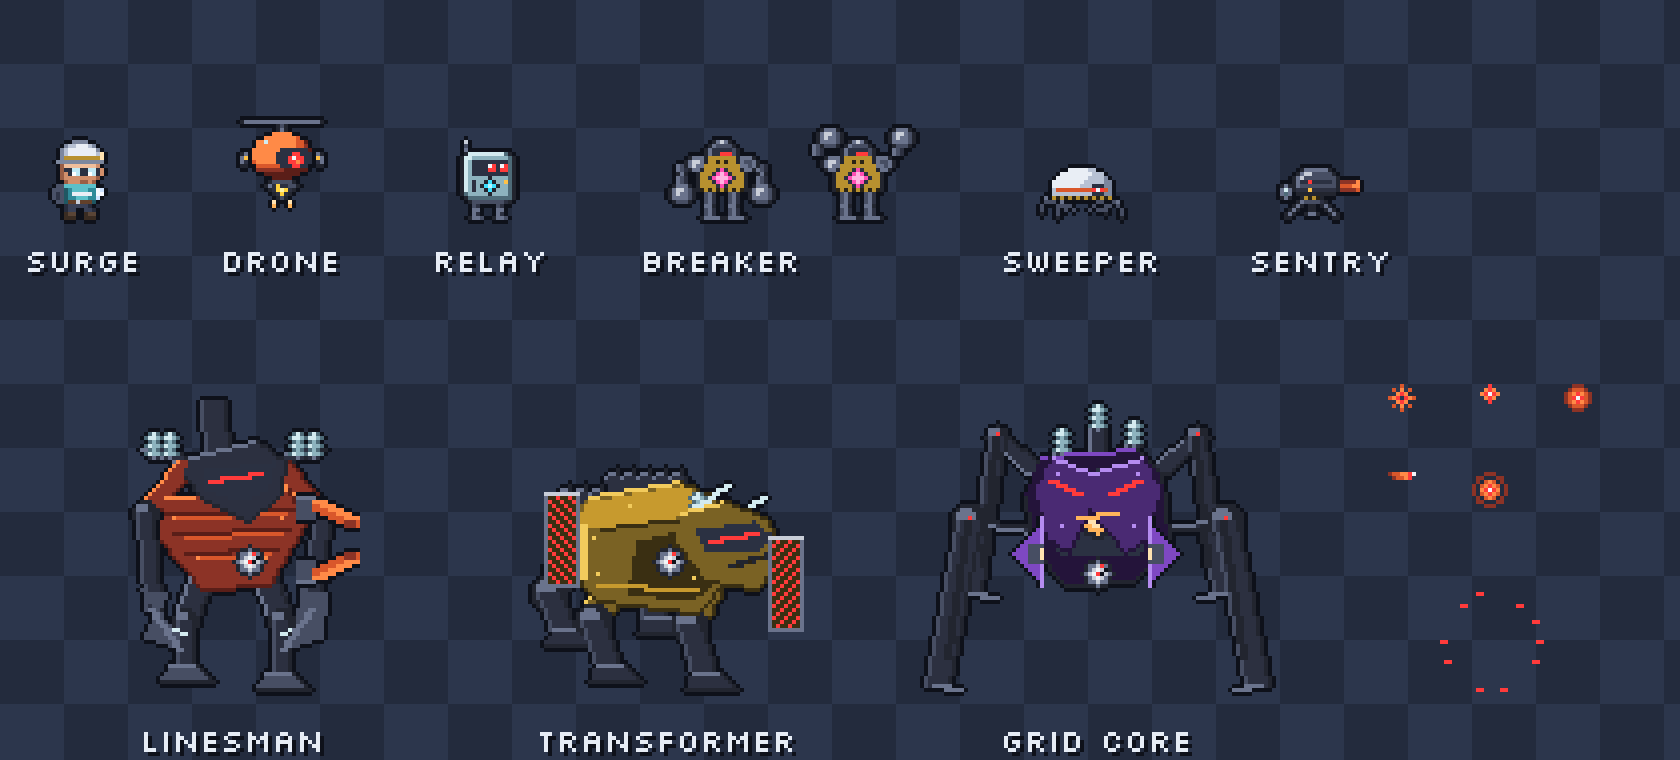
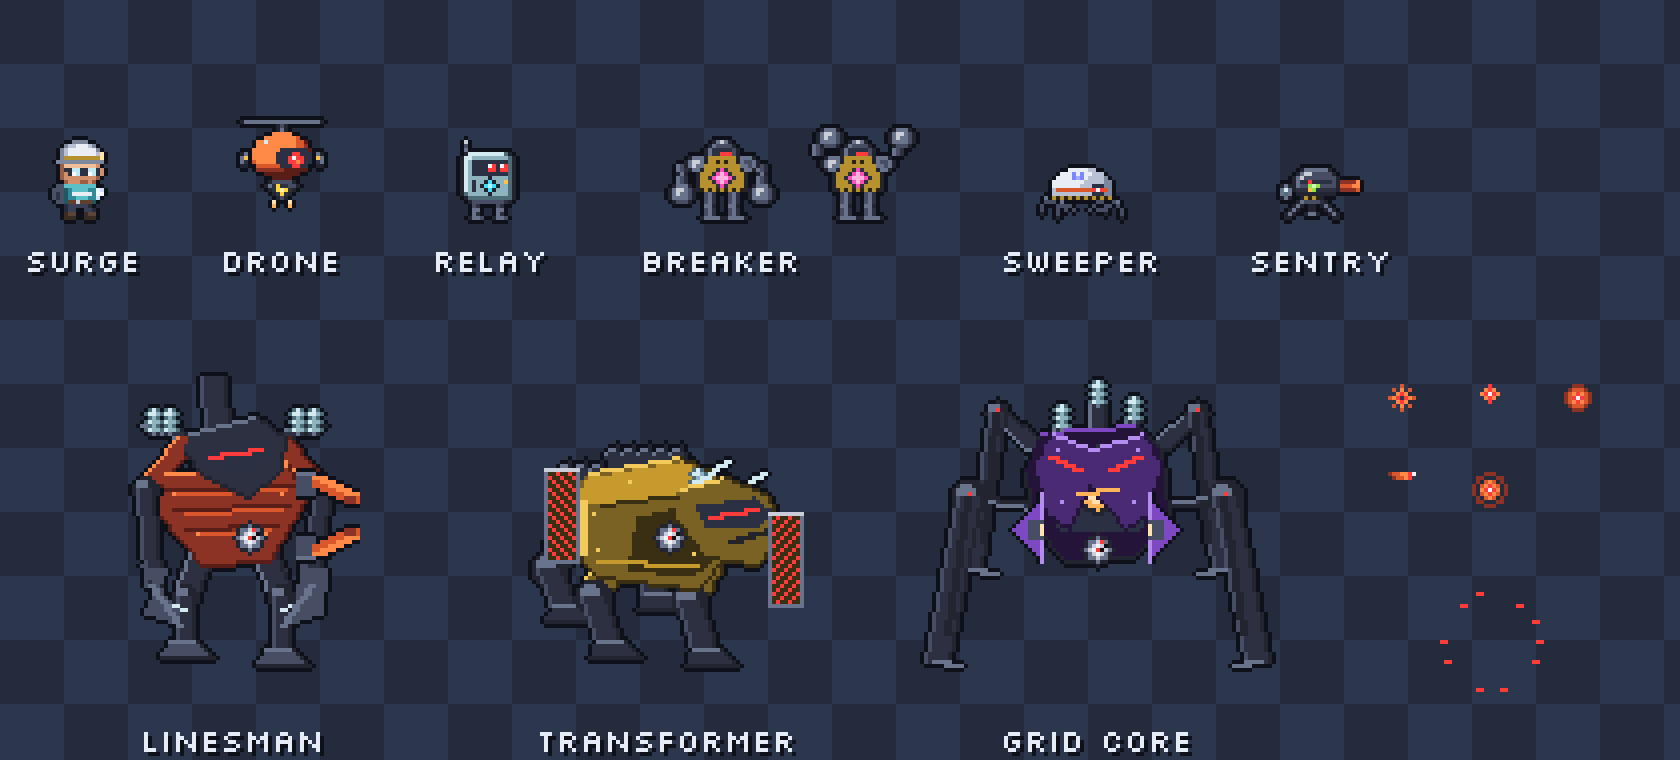
Address QA review findings on contact sheet, UI renders, and docs

Changed region(s): [[0.5262, 0.4842, 0.7738, 0.9382], [0.0619, 0.4842, 0.2167, 0.9382], [0.3095, 0.575, 0.4952, 0.9382]]

diff --git a/tools/art/contact_sheet.py b/tools/art/contact_sheet.py
@@ -86,12 +86,24 @@ Draw = Callable[[pygame.Surface, tuple[int, int]], None]
 
 
 def centered(image: pygame.Surface) -> Draw:
+    bounds = image.get_bounding_rect()
+    if bounds.w > 0 and bounds.h > 0:
+        image = image.subsurface(bounds).copy()
     max_w, max_h = CELL[0] - 8, CELL[1] - 18
     w, h = image.get_size()
     if w > max_w or h > max_h:
-        ratio = min(max_w / w, max_h / h)
-        image = pygame.transform.scale(image, (max(1, round(w * ratio)), max(1, round(h * ratio))))
+        divisor = max(2, math.ceil(max(w / max_w, h / max_h)))
+        image = pygame.transform.scale(image, (max(1, w // divisor), max(1, h // divisor)))
     return lambda target, c: target.blit(image, image.get_rect(center=c))
+
+
+def boss_chassis_items() -> list[tuple[str, pygame.Surface]]:
+    """Three Regulator chassis rendered at true 1:1 native pixel scale in a taller strip."""
+    return [
+        ("linesman", regulators.regulator("clamp", False, -0.6, kind="linesman")),
+        ("transformer", regulators.regulator("insulate", False, -0.6, kind="transformer")),
+        ("grid core", regulators.regulator("oscillate", False, -0.6, kind="grid_core")),
+    ]
 
 
 def items() -> list[tuple[str, Draw]]:
@@ -104,19 +116,13 @@ def items() -> list[tuple[str, Draw]]:
     entries.append(("surge sockets", centered(actors.surge("idle", 0, False, ("spark", "blink")))))
     entries.append(("caster", centered(actors.caster())))
     entries.append(("app icon", centered(actors.app_icon())))
-    # Maintenance robot roster (art/pixel/robots.py) and Regulator chassis (regulators.py).
+    # Maintenance robot roster (art/pixel/robots.py). Regulator chassis sit in their own 1:1 row.
     entries += [
         ("arc drone", centered(robots.drone(0, False))),
         ("relay bot", centered(robots.relay_bot(False))),
         ("breaker", centered(robots.breaker(False))),
         ("sweeper", centered(robots.sweeper(0, False))),
         ("sentry", centered(robots.sentry(False))),
-        ("linesman", centered(regulators.regulator("clamp", False, -0.6, kind="linesman"))),
-        (
-            "transformer",
-            centered(regulators.regulator("insulate", False, -0.6, kind="transformer")),
-        ),
-        ("grid core", centered(regulators.regulator("oscillate", False, -0.6, kind="grid_core"))),
     ]
     for protocol in ("clamp", "insulate", "oscillate"):
         entries.append((f"reg {protocol}", centered(actors.regulator(protocol, False, -2.4))))
@@ -158,7 +164,7 @@ def items() -> list[tuple[str, Draw]]:
             lambda t, c: effects.aim_tell(t, scratch(), (c[0] - 22, c[1]), 0.0, 0.7, reach=40),
         ),
         ("relay target", lambda t, c: effects.relay_destination(t, c, 0.6)),
-        ("relay arming", centered(actors.relay(False, arming=True))),
+        ("relay arming", centered(robots.relay_bot(False, arming=True))),
         ("fusion rings", lambda t, c: effects.fusion_rings(t, c, 0.7)),
         ("hazard tile", lambda t, c: effects.hazard_tile(t, scratch(), (c[0] - 8, c[1] - 8), 0.7)),
         ("reticle", centered(effects.reticle())),
@@ -173,10 +179,12 @@ def items() -> list[tuple[str, Draw]]:
 
 def render_sheet() -> pygame.Surface:
     entries = items()
+    chassis = boss_chassis_items()
     rows = math.ceil(len(entries) / COLUMNS)
+    boss_h = 112
     sampler = tiles.render_room(SAMPLER)
     room_h = sampler.background.get_height() + 20
-    w, h = COLUMNS * CELL[0], rows * CELL[1] + room_h
+    w, h = COLUMNS * CELL[0], rows * CELL[1] + boss_h + room_h
     sheet = pygame.Surface((w, h))
     sheet.fill(rgb("px.floor.1"))
     for i, (label, draw) in enumerate(entries):
@@ -184,7 +192,17 @@ def render_sheet() -> pygame.Surface:
         pygame.draw.rect(sheet, rgb("px.floor.0"), (x, y, *CELL), 1)
         draw(sheet, (x + CELL[0] // 2, y + CELL[1] // 2 - 5))
         hud.text(sheet, label, (x + CELL[0] // 2, y + CELL[1] - 2), "ui.dim", "midbottom")
-    top = rows * CELL[1]
+    boss_top = rows * CELL[1]
+    boss_cell_w = CELL[0]
+    for i, (label, image) in enumerate(chassis):
+        x = i * boss_cell_w
+        pygame.draw.rect(sheet, rgb("px.floor.0"), (x, boss_top, boss_cell_w, boss_h), 1)
+        bounds = image.get_bounding_rect()
+        cropped = image.subsurface(bounds) if bounds.w > 0 and bounds.h > 0 else image
+        rect = cropped.get_rect(center=(x + boss_cell_w // 2, boss_top + (boss_h - 14) // 2 + 2))
+        sheet.blit(cropped, rect)
+        hud.text(sheet, label, (x + boss_cell_w // 2, boss_top + boss_h - 2), "ui.dim", "midbottom")
+    top = boss_top + boss_h
     hud.text(sheet, "tile sampler", (4, top + 4), "ui.text")
     background = sampler.background.copy()
     for prop in sampler.props:

diff --git a/tools/art/ui_renders.py b/tools/art/ui_renders.py
@@ -67,6 +67,7 @@ def main(argv: list[str]) -> int:
         world.player.slots = ["storm_aura", "bolt_lance"]
         world.player.cooldowns[COOLDOWN_KEYS["bolt_lance"]] = 36
         view = PixelView(campaign)
+        view.after_tick(campaign)
         view.draw(screen, campaign, (164, 72))
         _save(screen, out_dir / "hud_in_play.png")
 

diff --git a/docs/ART_AND_AUDIO_DIRECTION.md b/docs/ART_AND_AUDIO_DIRECTION.md
@@ -92,7 +92,9 @@ The palette is organized as ramps, darkest first:
    - **Spark:** a bolt
    - **Blink:** a diamond
    - **Burst:** a ring
-4. **You can see what you will steal.** Each enemy shows its power core: the Arc Mite's bolt, the Relay's diamond window.
+   - **Bulwark:** a shield
+   - **Magnet:** a horseshoe
+4. **You can see what you will steal.** Each maintenance robot shows its power core: the Arc Drone's bolt, the Relay Bot's diamond window, the Breaker's ring, the Sentry's shield and the Sweeper's horseshoe.
 5. **A fusion looks like its ingredients combined.** Arc Trail is a yellow bolt line strung between two cyan Blink diamonds.
 6. **Telegraphs fill up.** Every hostile attack shows something that fills over the tell time: a ring of dots around a shooter, hatching inside a hazard tile, a Relay's landing diamond. Telegraphs use `hostile.danger` plus a pattern, never color alone.
 7. **Lit and emissive are separate.** Ordinary pixels are darkened by the blackout lighting. Glowing pixels (powers, cores, shots, conduits, LEDs, lamp lenses) are added after, so they always read.
@@ -119,7 +121,7 @@ Timing standards apply to both comparison conditions identically:
 | Regulator attack | ≥ 0.50 s | ≥ 0.60 s after lunges |
 | Chassis signature (ring, quake, summon, spiral) | ≥ 0.50 s, the protocol waits while it runs | the signature's own rest (4 to 7 s) |
 | Relay blink destination | 0.50 s marker before arrival | |
-| Protocol boot at encounter start | 1.5 s pose, sound and icon | |
+| Protocol boot at encounter start | 1.5 s pose, sound, protocol icon and label (revised D5) | |
 
 **Feedback:** white hit flashes on enemies, spark bursts on hits and kills, muzzle flashes, invulnerability flicker on the Surge, and screen shake at 2 px or less with a toggle.
 
@@ -154,12 +156,13 @@ Status: **done** means drawn, in the game or style frame, and on the contact she
 | AB-03 | Spark | Bolt projectile | P0 | Done |
 | AB-04 | Blink | Diamond at departure and arrival | P0 | Done |
 | AB-05 | Arc Trail | Bolt line between two Blink diamonds | P0 | Done |
-| AB-06 to 08 | Burst, Shock Cone, evolutions | Magenta ray cone (wider when evolved), Shock Cone adds yellow sparks, chain bolts between robots, Overdrive ghost trail | P2 | Done (overhaul step 4) |
+| AB-06 to 08 | Burst, Bulwark, Magnet and evolutions | Magenta ray cone (wider when evolved), shield dome with reflect flash, indigo pull field with crush arc, chain bolts between robots, Overdrive ghost trail | P2 | Done (`sim/fusions.py`, `art/pixel/effects.py`) |
+| AB-09 | 30 chance-fused powers | 10 pairs x 3 rarities (rare, epic, legendary), each combining its ingredient colors and verbs (`docs/POWERS_AND_FUSION.md`), all 35 power icons on the contact sheet | P2 | Done (`sim/powers.py`, `sim/pairs.py`, `art/pixel/effects.py`) |
 
 ### Pickups, telegraphs and icons
 | ID | Asset | Pri | Status |
 | --- | --- | --- | --- |
-| PK-01 | Charges (bolt, diamond, ring) that float and glow | P0 | Done |
+| PK-01 | Charges (bolt, diamond, ring, shield, horseshoe) that float and glow | P0 | Done |
 | PK-02, PK-03 | Unlock and fusion flashes | P0 | Done. The fusion rings and the Relay's arming lever are on the contact sheet. The unlock flash and the white fusion flash are full-screen effects, checked in play |
 | TL-01 | Aim tell (dotted line, filling ring of dots) | P0 | Done |
 | TL-02 | Relay landing diamond (hatched) | P0 | Done |
@@ -200,10 +203,10 @@ The view is only 256 x 144, so every HUD pixel competes with the fight. Rules, a
 2. **Only what matters mid-fight.** Health, power readiness, where you are, the boss. Control hints live on the title screen's controls page and in the loadout menu footer, not on screen.
 3. **Health, top left:** a battery glyph and one compact pip per point (about 50 x 10 px). Pips turn red at 2 or less and the battery glyph pulses. Dodge readiness is a 1 px line under them.
 4. **Minimap, top right:** a schematic of the 5 x 3 room grid (about 50 x 22 px), not a scaled map. Rooms appear once seen or once a door to them is known. Current room white, cleared grey, the locked room red, a dot for chambers and Fuse Boxes.
-5. **Powers, bottom right:** two 18 px slots with a small Q or E tab above each. A dark fill drains while a power cools, and the border goes bright when it is ready. Names appear in the loadout menu, not here.
+5. **Powers, bottom right:** two 18 px slots with a small Q or E tab above each. A dark fill drains while a power cools. Fused powers carry their rarity border color and 1, 2 or 3 cross marks along the bottom edge, and slots show a 6-tick ready flash when coming off cooldown (steady border under Reduce Flash). Names appear in the loadout menu, not here.
 6. **Boss, top center, only during the fight:** the name and a thin bar.
 
-**Loadout and Fuse Box screen:** one framed panel over a darkened scene, laid out like an inventory screen. A header with the title and context. Left: the stolen powers, each with pips toward its evolution. Right: the two equipped slots as cards, then one row per fusion recipe (the two ingredients and the result as icons) with a status of F FUSE, DONE or what is missing, and a brief glow around a recipe just fused. A detail line describes the selected power. One footer line of controls, which the result of the last key (a fusion, or what is missing) replaces until the next pick. The Fuse Box uses the same panel. Its detail line is always the link status (the approved D7 line when the link is down), plus Continue.
+**Tab menu, Loadout and Fuse Bench:** one framed panel over a darkened scene. Pressing Tab or Esc opens the hub (`RESUME`, `LOADOUT`, `FUSE`, `SETTINGS`, `CONTROLS`, `QUIT`), while arriving in a Fuse Box opens with `CONTINUE` plus the link status line (the approved D7 line when the live link is down). `LOADOUT` lists stolen and fused powers on the left (base powers with 3 square evolution pips, fused powers with rarity crosses and slot letters) and shows the two equipped slots plus the selected power's rarity, wrapped description (including evolved perks), cooldown, recipe ingredients and `USES` / `ACTIVE` inherited evolution badges on the right. `FUSE` is a separate crafting bench where you pick two base powers to roll a rare, epic or legendary fusion with a reveal card (`docs/POWERS_AND_FUSION.md` section 7).
 
 | ID | Asset | Pri | Status |
 | --- | --- | --- | --- |
@@ -248,17 +251,17 @@ Stems change on the next bar line. Music ducks by 6 dB during telegraph sounds s
 ### Sound effects
 All sound effects come from the same small synth as the music (saw, square, sine, noise, one resonant filter and a light bit-crush). Pitched sounds are tuned to B minor.
 
-| Group | Sounds | Pri |
+| Group | Sounds (81 approved `sfx_` cues in `assets/ASSET_MANIFEST.json`) | Pri |
 | --- | --- | --- |
 | Player | Shot, hit, dodge, death, low health | P0 |
-| Powers | Spark, Blink depart and arrive, Blink deny, Arc Trail buzz | P0 |
-| Enemies | Arc Mite tell and zap, Relay click and blink, enemy death short-circuit | P0 |
-| Regulator | Tread rumble, three protocol stings (MU-03), lunge thunk, hazard fill, orb fire, hit, defeated | P0 |
-| Regulator chassis | Signature wind-up (`boss_charge`, ducks the music like other tells), ring burst (also the spiral), quake, summon, overload alarm | P0 |
-| Progression | Charge pickup, unlock, fusion | P0 |
+| Base powers | Spark, Blink depart/arrive/deny, Bulwark up/absorb/reflect, Magnet field/crush, Burst and Arc Trail | P0 |
+| Fused powers | 30 dedicated use cues (`sfx_fused_*`), one per fused power by pair, verb and rarity (`tools/audio/cues.py`) | P2 |
+| Enemies | Arc Drone tell and zap, Relay Bot click and blink, Breaker raise and slam, Sweeper rev, Sentry fire, enemy death short-circuit | P0 |
+| Regulator | Tread rumble, three protocol stings (MU-03), lunge thunk, hazard fill, orb fire, hit, defeated (`boss_down`) | P0 |
+| Regulator chassis | Signature wind-up (`boss_charge`, ducks the music like other tells), ring burst, spiral, quake, summon, live wire, volley, charge and impact, spray, lattice, vent, phase change, overload alarm | P0 |
+| Progression | Charge pickup, unlock, fusion, evolution, fusion roll and rarity stings (rare, epic, legendary) | P0 |
 | UI | Hover, confirm, deny, link status blip | P1 |
 | Ambient | Substation hum bed, emergency lamp buzz, Fuse Box room tone | P1 |
-| Ceiling | Burst, Shock Cone, Coil, evolution | P2 |
 
 Mix priority from highest to lowest:
 1. Hostile tells
@@ -344,7 +347,7 @@ All implemented in `SETTINGS` (`game/settings.py`) and `CONTROLS` (`game/keybind
 | Shape readability | Bright-pattern comparison in `tests/shapes.py` for confusable pairs, plus the CVD contact sheet reviewed by QA |
 | Room validity | Rows match in width, wall decor sits on walls, props and decals sit on the floor, spawns are clear |
 | Tell timing | Sim tests assert every hostile attack's tell and recovery frames meet the timing standards in section 2 |
-| Mute playability | Every audio event maps to a visual event (test, once audio lands) |
+| Mute playability | Every audio event maps to a visual event (enforced by `tests/test_audio.py`, all 90 cues approved) |
 | Audio technical | Peak level ≤ -1 dBFS, seamless loops, equal stem lengths |
 | Performance | Light pools are built before the first frame. After that a full frame renders in well under 1 ms at 256 × 144 on the development laptop. Cosmetic effects advance per simulation tick, so they look the same at any display rate. Profile again before Alpha |
 | Cohesion review | Adit compares each new batch with the approved style frame. Anything off-theme gets sent back |

diff --git a/docs/HANDOFF.md b/docs/HANDOFF.md
@@ -15,7 +15,7 @@ Snapshot of November 21, 2026. For any agent or chat picking up the work. The st
 Six stacked PRs, each independently reviewed by a fresh read-only QA reviewer and verified on Python 3.12 and 3.11 without changing `tuning_id` (`624e3a96`), `arena_id` (`cff616dc`), simulation hash pins or approved `.ogg` audio files:
 1. **PR #64 (`feat/secret-room-cache`):** shooting open Sector 2's secret wall spawns a Burst charge in `hidden`, room-clear auto-pickup stays scoped to the cleared combat room so the player walks in to claim the cache, and contact pickups never spawn duplicate flyers.
 2. **PR #65 (`polish/ui-clarity`):** ending screen wraps up to 22 powers across two rows (with rarity marks and a `+N` cap beyond 22) and lets interactive runs press Space/Enter to return cleanly to the title screen on the same window and Audio instance. LOADOUT shows square evolution pips, `EVOLVED_INFO`, and inline inherited evolution badges (`USES` / `ACTIVE`). Fuse bench clears `+N` spares above card frames and shows the rolled power's description inside the reveal card. In-play HUD slots show rarity borders, rarity crosses and a 6-tick ready flash. Entry and Fuse Box floor stencils shift clear of the top-left battery HUD.
-3. **PR #66 (`polish/combat-juice-and-world`):** revises D5 for OQ5 by showing the active protocol icon and label (`CLAMP`, `INSULATE`, or `OSCILLATE PROTOCOL`) on the 1.5 s Regulator boot card identically in all conditions. Adds Vent-window gold crit rings, bursts and layered spark audio, shield deflection rings, a 2 px jolt and thin danger-red edge vignette on player hits and single-cell low battery, a cosmetic recessed charging bay in `fuse_1` and `fuse_2`, and non-blocking 1.5 s arrival banners for Sector 2 and Sector 3.
+3. **PR #66 (`polish/combat-juice-and-world`):** revises D5 for OQ5 by showing the active protocol icon and label (`CLAMP`, `INSULATE`, or `OSCILLATE PROTOCOL`) on the 1.5 s Regulator boot card identically in all conditions. Adds Vent-window gold crit rings, bursts and layered spark audio, shield deflection rings, a 2 px jolt on player hits and a thin danger-red edge vignette on player hits and single-cell low battery, a cosmetic recessed charging bay in `fuse_1` and `fuse_2`, and non-blocking 1.5 s arrival banners for Sector 2 and Sector 3.
 4. **PR #67 (`feat/settings-and-stingers`):** adds `SETTINGS` (`UI-08`, `game/settings.py`, saved in git-ignored `settings/prefs.json`, ignored by replays and headless runs) on Title and Pause/Fuse Box hubs for Music Volume, SFX Volume, Screen Shake, Reduce Flash (steady outline cues across every flash and flicker source) and Fullscreen, plus the 32 x 32 Surge app icon (`MK-02`).
 5. **PR #68 (`feat/rival-v4-guidance`):** updates `config/tactics.json` (version 3) with power-family counter guidance for Evidence Version 4 and upgrades `eval/histories.json` (version 2) to six 10-kind Evidence Version 4 histories, verified with Worker typecheck and 38 Worker tests.
 6. **PR #69 (`docs/polish-and-renders`):** updates `README.md`, `agent-config.json`, `docs/ART_AND_AUDIO_DIRECTION.md`, `docs/HANDOFF.md`, `tools/art/contact_sheet.py`, `tools/art/ui_renders.py`, and regenerates the review renders in `docs/art/`.
@@ -30,6 +30,6 @@ Six stacked PRs, each independently reviewed by a fresh read-only QA reviewer an
 ## How the fusion system fits together
 - **Rules (`sim/powers.py`):** `RESULTS` maps each of the 10 pairs to rare, epic and legendary ability IDs. `fuse()` rolls from `(seed, fusions, guaranteed)` and replaces the pair's result. The bank holds spare charges, and cooldown families share cooldowns.
 - **Powers (`sim/fusions.py`, `sim/pairs.py`):** one deterministic verb per power, inheriting evolutions from `INHERITS`. The Regulator is never displaced.
-- **Menu (`game/menu.py`, `game/settings.py`, `game/keybinds.py`):** pure Python logic with no pygame, unit tested separately from `menu_view.py`.
+- **Menu (`game/menu.py`, `game/settings.py`, `game/keybinds.py`):** pure Python logic (`keybinds.py` lazily imports pygame only for key-code lookup), unit tested separately from `menu_view.py`.
 - **Dev mode (`game/dev.py`):** gated by git-ignored `.overload-dev`, edits world state between ticks, disables rival calls and traces, refuses replays/practice, and stamps `DEV` on every frame.
 - **Guards:** `tests/test_fusion.py` enforces rarity steps, `tests/test_balance.py` enforces protocol checks, `tests/test_palette.py` enforces palette tokens, and `tests/test_audio.py` enforces visual twins and cue completeness.

diff --git a/README.md b/README.md
@@ -39,7 +39,7 @@ The campaign is a hand-built substation floor of three sectors (Switchyard, Cool
 
 On the title screen, use A/D or Left/Right to choose Easy, Medium, Hard, or Nightmare before Start. Medium (`tuning_id` `624e3a96`) is the formal playtest balance. Other presets adjust battery capacity, enemy health, and bolt speed. The choice stays fixed for the run and its retries. Recordings replay at their recorded difficulty.
 
-Review renders of the art live in [`docs/art/`](docs/art/): the contact sheet with color-vision simulations, boss phases, robot roster and UI screens. Regenerate them with `uv run --group tools python tools/art/contact_sheet.py` (Python 3.12), `uv run python tools/art/boss_review.py` and `uv run python tools/art/ui_renders.py`.
+Review renders of the art live in [`docs/art/`](docs/art/): the contact sheet with color-vision simulations, boss phases, robot roster and UI screens. Regenerate them with `uv run --group tools python tools/art/contact_sheet.py` (Python 3.12), `uv run python tools/art/robot_style_frame.py`, `uv run python tools/art/boss_review.py` and `uv run python tools/art/ui_renders.py`.
 
 CI runs the same checks on every pull request ([`.github/workflows/overload-checks.yml`](.github/workflows/overload-checks.yml)). Development agent roles live in [`.agents/`](.agents/) and the common manifest is [`agent-config.json`](agent-config.json).
 
